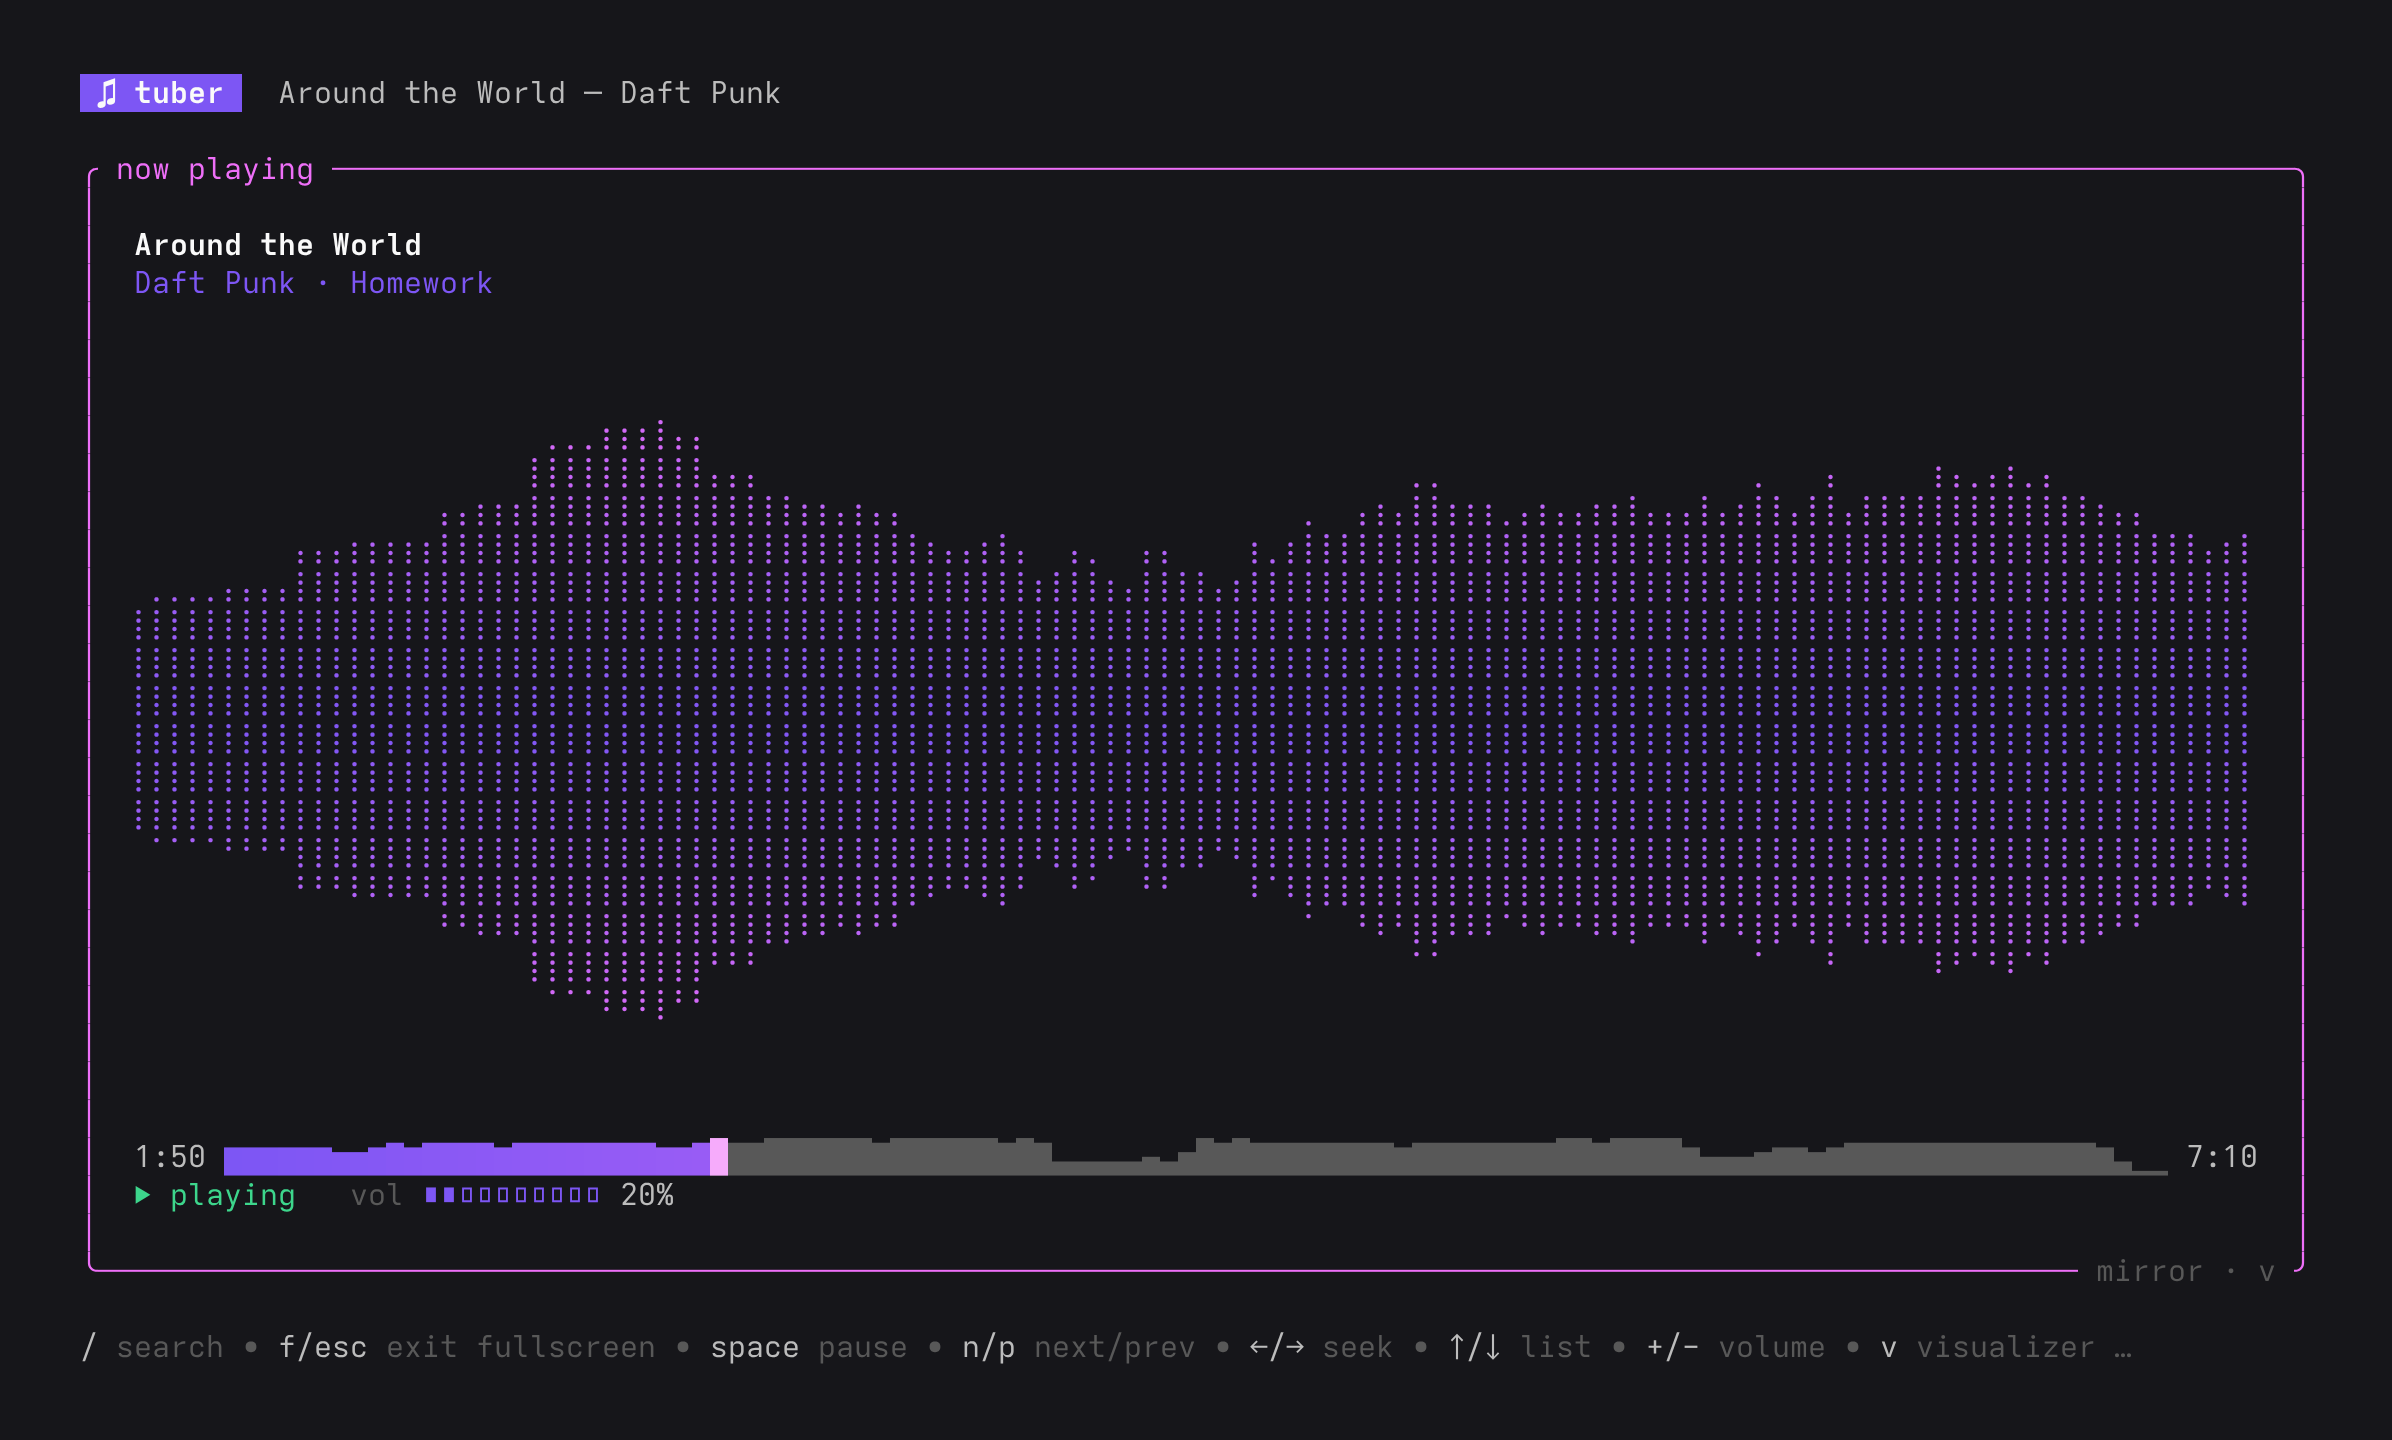
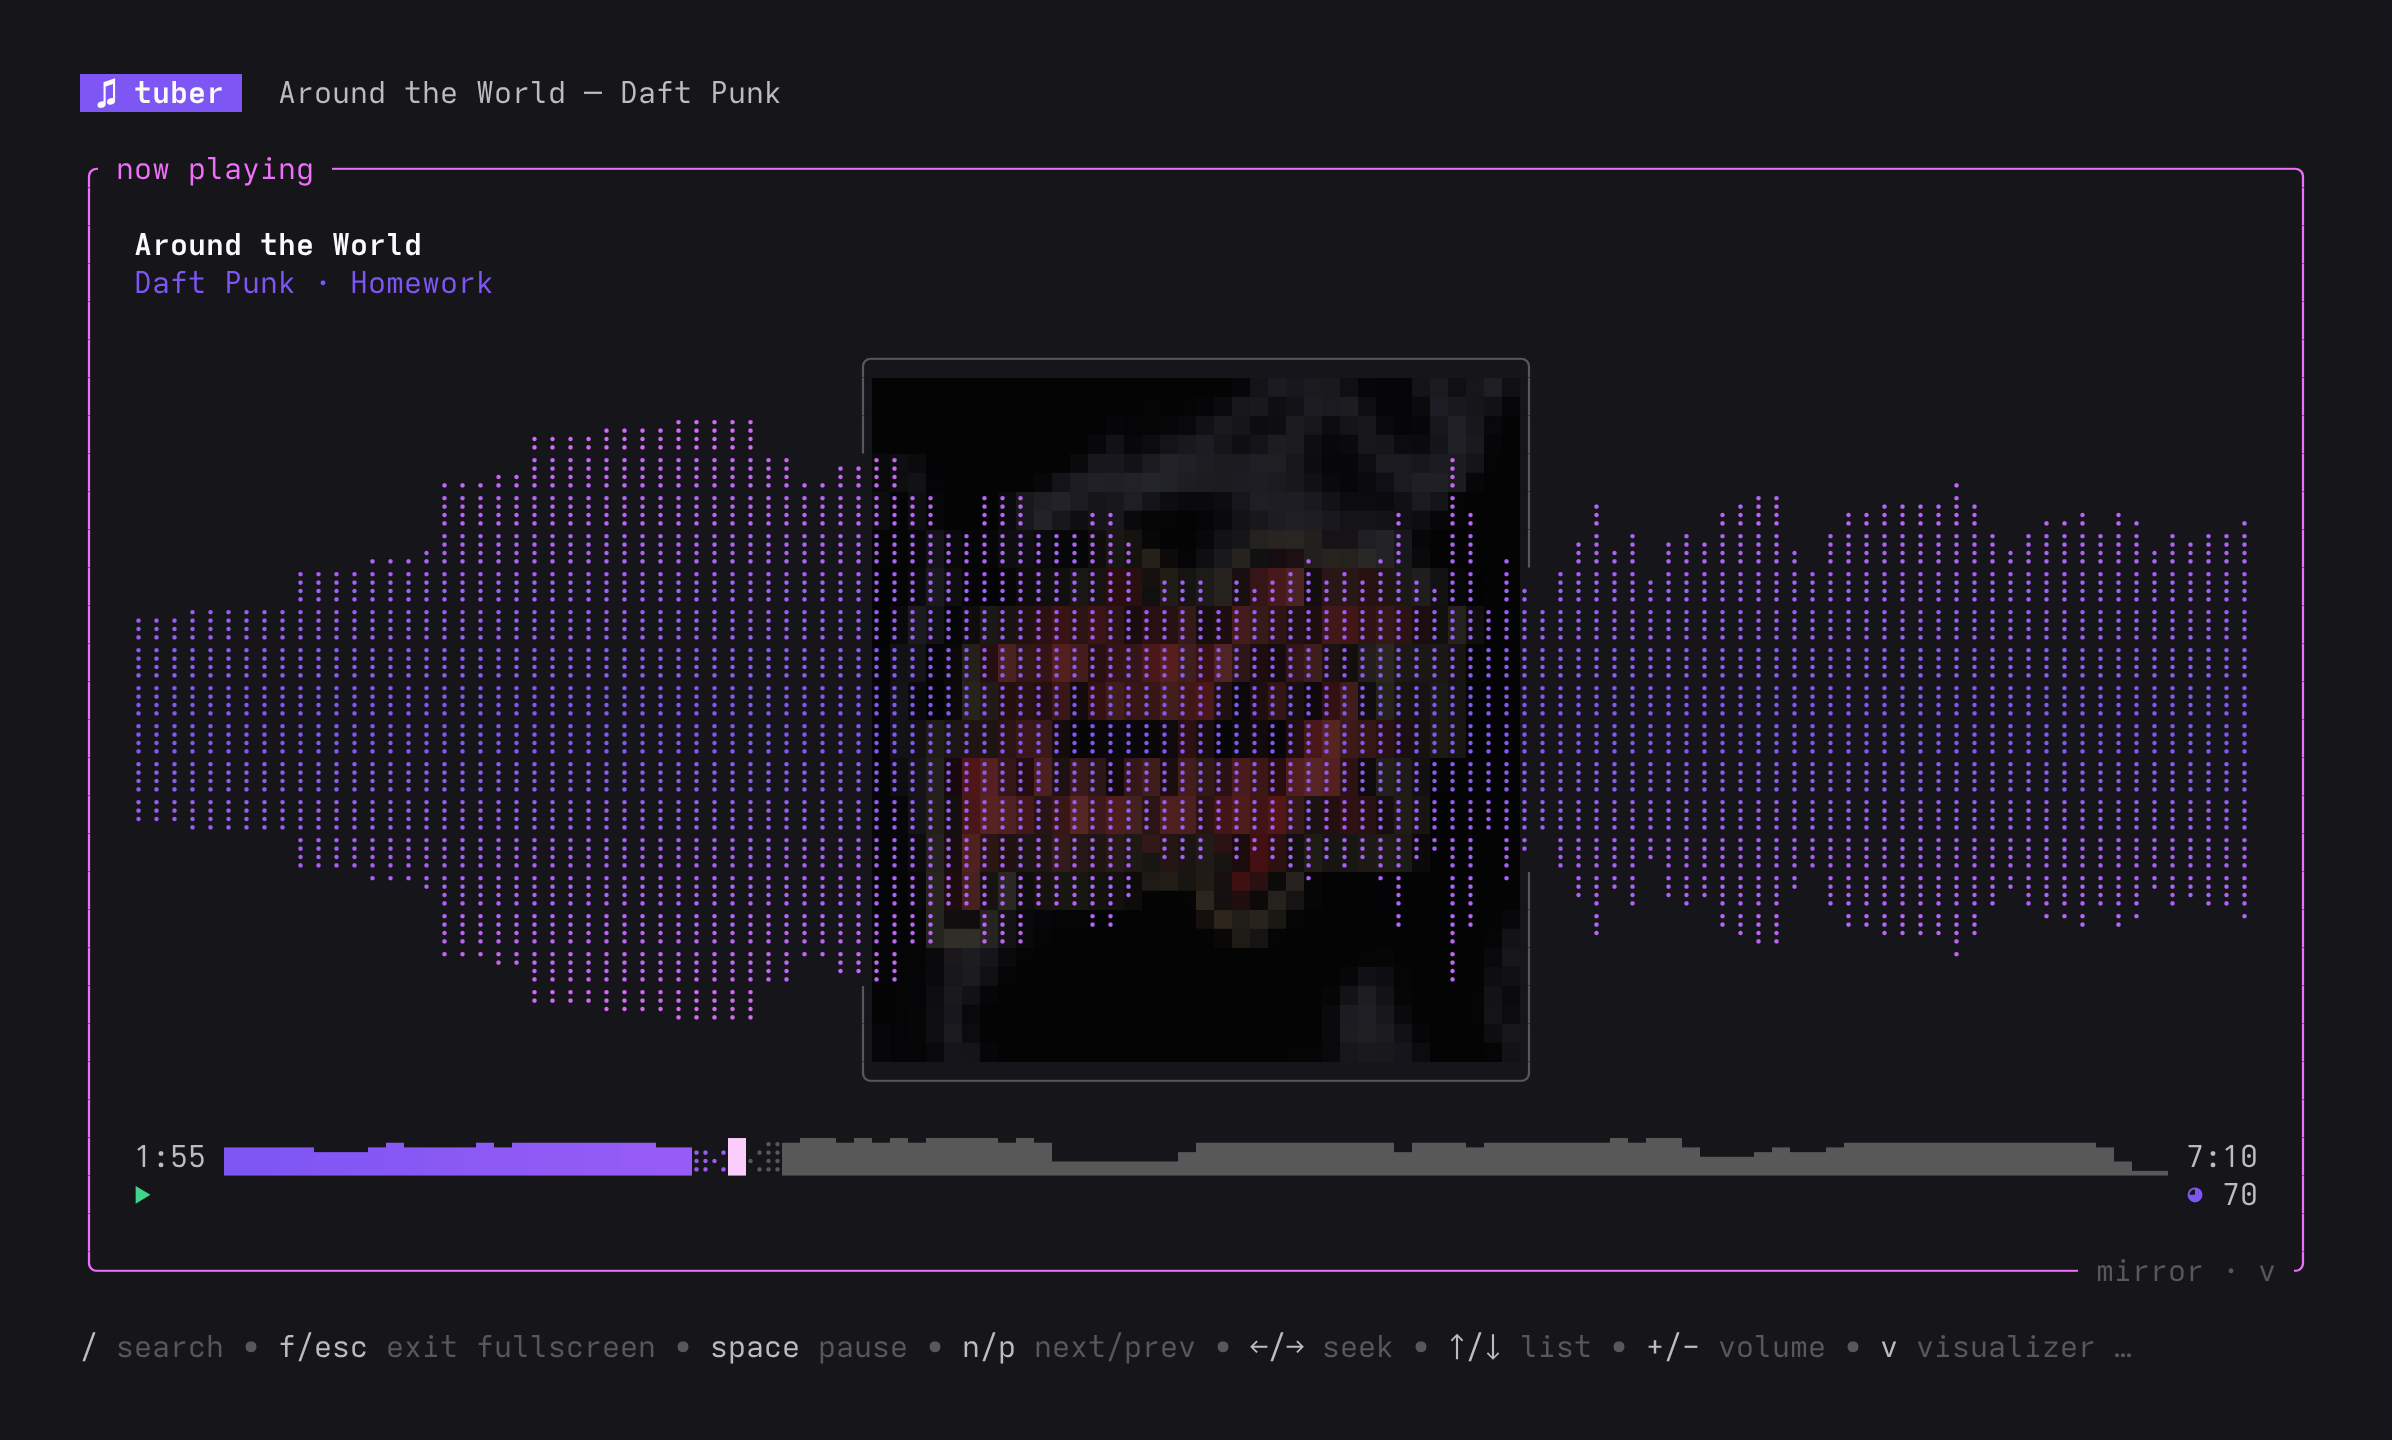
README: list features and prerequisites; refresh screenshots
Describe what tuber does rather than how it's drawn, gather everything
needed to run and build it under Prerequisites, add an install line,
and retake both screenshots with the framed cover and volume circle.

Claude-Session: https://claude.ai/code/session_01D5W8Jw8ikn3ay8sTr2MQRS

diff --git a/README.md b/README.md
@@ -1,17 +1,20 @@
 # tuber
 
-A terminal YouTube Music player built with [ratatui](https://ratatui.rs). It works without an account, and can optionally use yours. It draws a braille audio visualizer and uses [ratatui-cheese](https://crates.io/crates/ratatui-cheese) (Charm-style) widgets and colors.
+A terminal YouTube Music player. Search, play, and let a radio mix keep the music going. It works without an account, and can optionally use yours.
 
 ![tuber with search results, spectrum visualizer and waveform seekbar](docs/screenshot.png)
 
-- **Search** uses YouTube Music's own InnerTube API, filtered to songs. It's anonymous unless you sign in.
-- **Radio**: pressing enter on a song plays it and fills the queue with YouTube Music's auto-generated mix for that song.
-- **Playback**: `yt-dlp` resolves the stream URL, `ffmpeg` decodes it to PCM, and `cpal` plays it.
-- **Waveform seekbar**: shows the shape of the whole track (`▁▂▃▄▅▆▇█`) from a quick second ffmpeg pass. The played part takes a purple→pink gradient and the rest stays faint. The playhead is a full-height block that slides across in 1/8-column steps: a block growing in from the left (`▏▎▍▌▋▊▉█`) with the remainder shrinking out of the column behind it (`🮋🮊🮉▐🮈🮇▕`). It flashes on beats, and on each side the bars thin out toward it through two braille columns at the same height: a full one, then a dithered one (every other dot) right next to the playhead. The shrinking half needs Unicode 13 legacy-computing blocks; kitty, WezTerm, Ghostty, foot and Windows Terminal draw them natively.
-- **MPRIS**: shows up in desktop now-playing widgets (Quickshell, Waybar, GNOME and KDE) with title, artist and cover art, but only once something plays. It disappears again when playback stops. Media keys and `playerctl` can control it.
-- **Resume**: the queue, current track, position, volume and last search are saved locally to `~/.local/state/tuber/session.json`, with no account involved. On the next launch the session comes back paused where you left off; press space to continue.
-- **Cover art**: the track's cover is drawn dimmed behind the visualizer with half blocks (`▀`, two pixels per character in 24-bit color), framed by a grey rounded border like the player panel, with the visualizer drawn on top. Video thumbnails have their letterbox bars trimmed first.
-- **Visualizer** reads the exact samples sent to the speakers and draws them with braille dots on a ratatui `Canvas`. It has three modes: spectrum with peak caps, a mirrored waveform, and a triggered oscilloscope.
+## Features
+
+- **Search** YouTube Music for songs, no account needed.
+- **Radio**: playing a song fills the queue with a mix based on it.
+- **Queue**: add, remove and jump between tracks; next and previous.
+- **Visualizer** over the album art, in three modes: spectrum, mirrored waveform and oscilloscope.
+- **Waveform seekbar** showing the shape of the whole track; seek in 5-second steps.
+- **Resume**: the queue, position, volume and last search are saved locally (`~/.local/state/tuber/`), and the next launch picks up where you left off, paused.
+- **Desktop integration** through MPRIS: shows in now-playing widgets with cover art, and works with media keys and `playerctl`.
+- **Fullscreen** for the list or the player.
+- **Optional sign-in**: liked songs, personalised mixes, plays added to your history, picking up a song from another device, and Premium audio quality. See [Sign in](#sign-in-optional).
 
 <details>
 <summary>Fullscreen player, mirror visualizer</summary>
@@ -20,16 +23,33 @@ A terminal YouTube Music player built with [ratatui](https://ratatui.rs). It wor
 
 </details>
 
-## Requirements
+## Prerequisites
 
-`yt-dlp` and `ffmpeg` on your `PATH`, plus ALSA headers to build (`alsa-lib-devel` / `libasound2-dev`).
-yt-dlp also needs a JavaScript runtime for YouTube's challenges; tuber lets it use deno, node, bun or quickjs, whichever is installed. Keep yt-dlp up to date. When YouTube changes how stream URLs are signed, updating yt-dlp is usually the fix.
+To run:
+
+- [**yt-dlp**](https://github.com/yt-dlp/yt-dlp), kept up to date. When YouTube changes something, updating yt-dlp is usually the fix, and distro packages can lag behind; `pipx install yt-dlp` or the standalone release stays current.
+- **ffmpeg**.
+- **A JavaScript runtime** for yt-dlp to solve YouTube's challenges: deno, node, bun or quickjs, whichever you have.
+- A terminal with 24-bit color. Fonts with Unicode 13 block characters draw the seekbar's playhead best; kitty, WezTerm, Ghostty, foot and Windows Terminal draw them without one.
+
+To build:
+
+- **Rust 1.88** or newer (via [rustup](https://rustup.rs)).
+- **ALSA headers** and `pkg-config`: `alsa-lib-devel pkgconf-pkg-config` on Fedora, `libasound2-dev pkg-config` on Debian and Ubuntu.
+
+Only for signing in with a Chrome-family browser on GNOME: the Python **secretstorage** module (`python3-secretstorage`), which yt-dlp needs to read the cookie key from the keyring.
+
+## Install
+
+```sh
+cargo install --git https://github.com/Auxnon/tuber
+```
 
 ## Run
 
 ```sh
-cargo run --release                       # start at the search box
-cargo run --release -- daft punk          # search straight away
+tuber                # start at the search box
+tuber daft punk      # search straight away
 ```
 
 ## Sign in (optional)
@@ -51,7 +71,7 @@ Sign in to [music.youtube.com](https://music.youtube.com) in your browser first.
 - radio mixes and search are personalised to your account,
 - yt-dlp gets the cookies too, for Premium audio quality and age-restricted tracks.
 
-The cookies are as powerful as your browser's YouTube session, so treat the file like a password. Signing out of YouTube in the browser invalidates them; run `--login` again. If YouTube rejects them, search, radio and playback keep working anonymously. Chrome-family browsers keep the cookie key in your keyring, and yt-dlp reads GNOME Keyring through the Python `secretstorage` module (`python3-secretstorage` on Fedora and Debian), which some distro packages leave out; `--login` tells you if it's missing. The keyring may ask for permission the first time. Google no longer lets third-party apps use its device-code sign-in for YouTube Music, so borrowing the browser's session is the way that still works.
+The cookies are as powerful as your browser's YouTube session, so treat the file like a password. Signing out of YouTube in the browser invalidates them; run `--login` again. If YouTube rejects them, search, radio and playback keep working anonymously. With Chrome-family browsers the keyring may ask for permission the first time, and `--login` tells you if `secretstorage` is missing.
 
 ## Keys
 
@@ -70,7 +90,7 @@ The cookies are as powerful as your browser's YouTube session, so treat the file
 | `space` | pause |
 | `n` / `p` | next / previous (restarts track if >3s in) |
 | `←`/`→` (`h`/`l`) | focus player, then seek ±5s |
-| `+` / `-` | volume (a circle and number show the level; the bar appears while you change it) |
+| `+` / `-` | volume |
 | `v` | cycle visualizer mode |
 | `L` | load your liked songs into results (signed in) |
 | `c` | continue the song last played on another device (when offered) |
